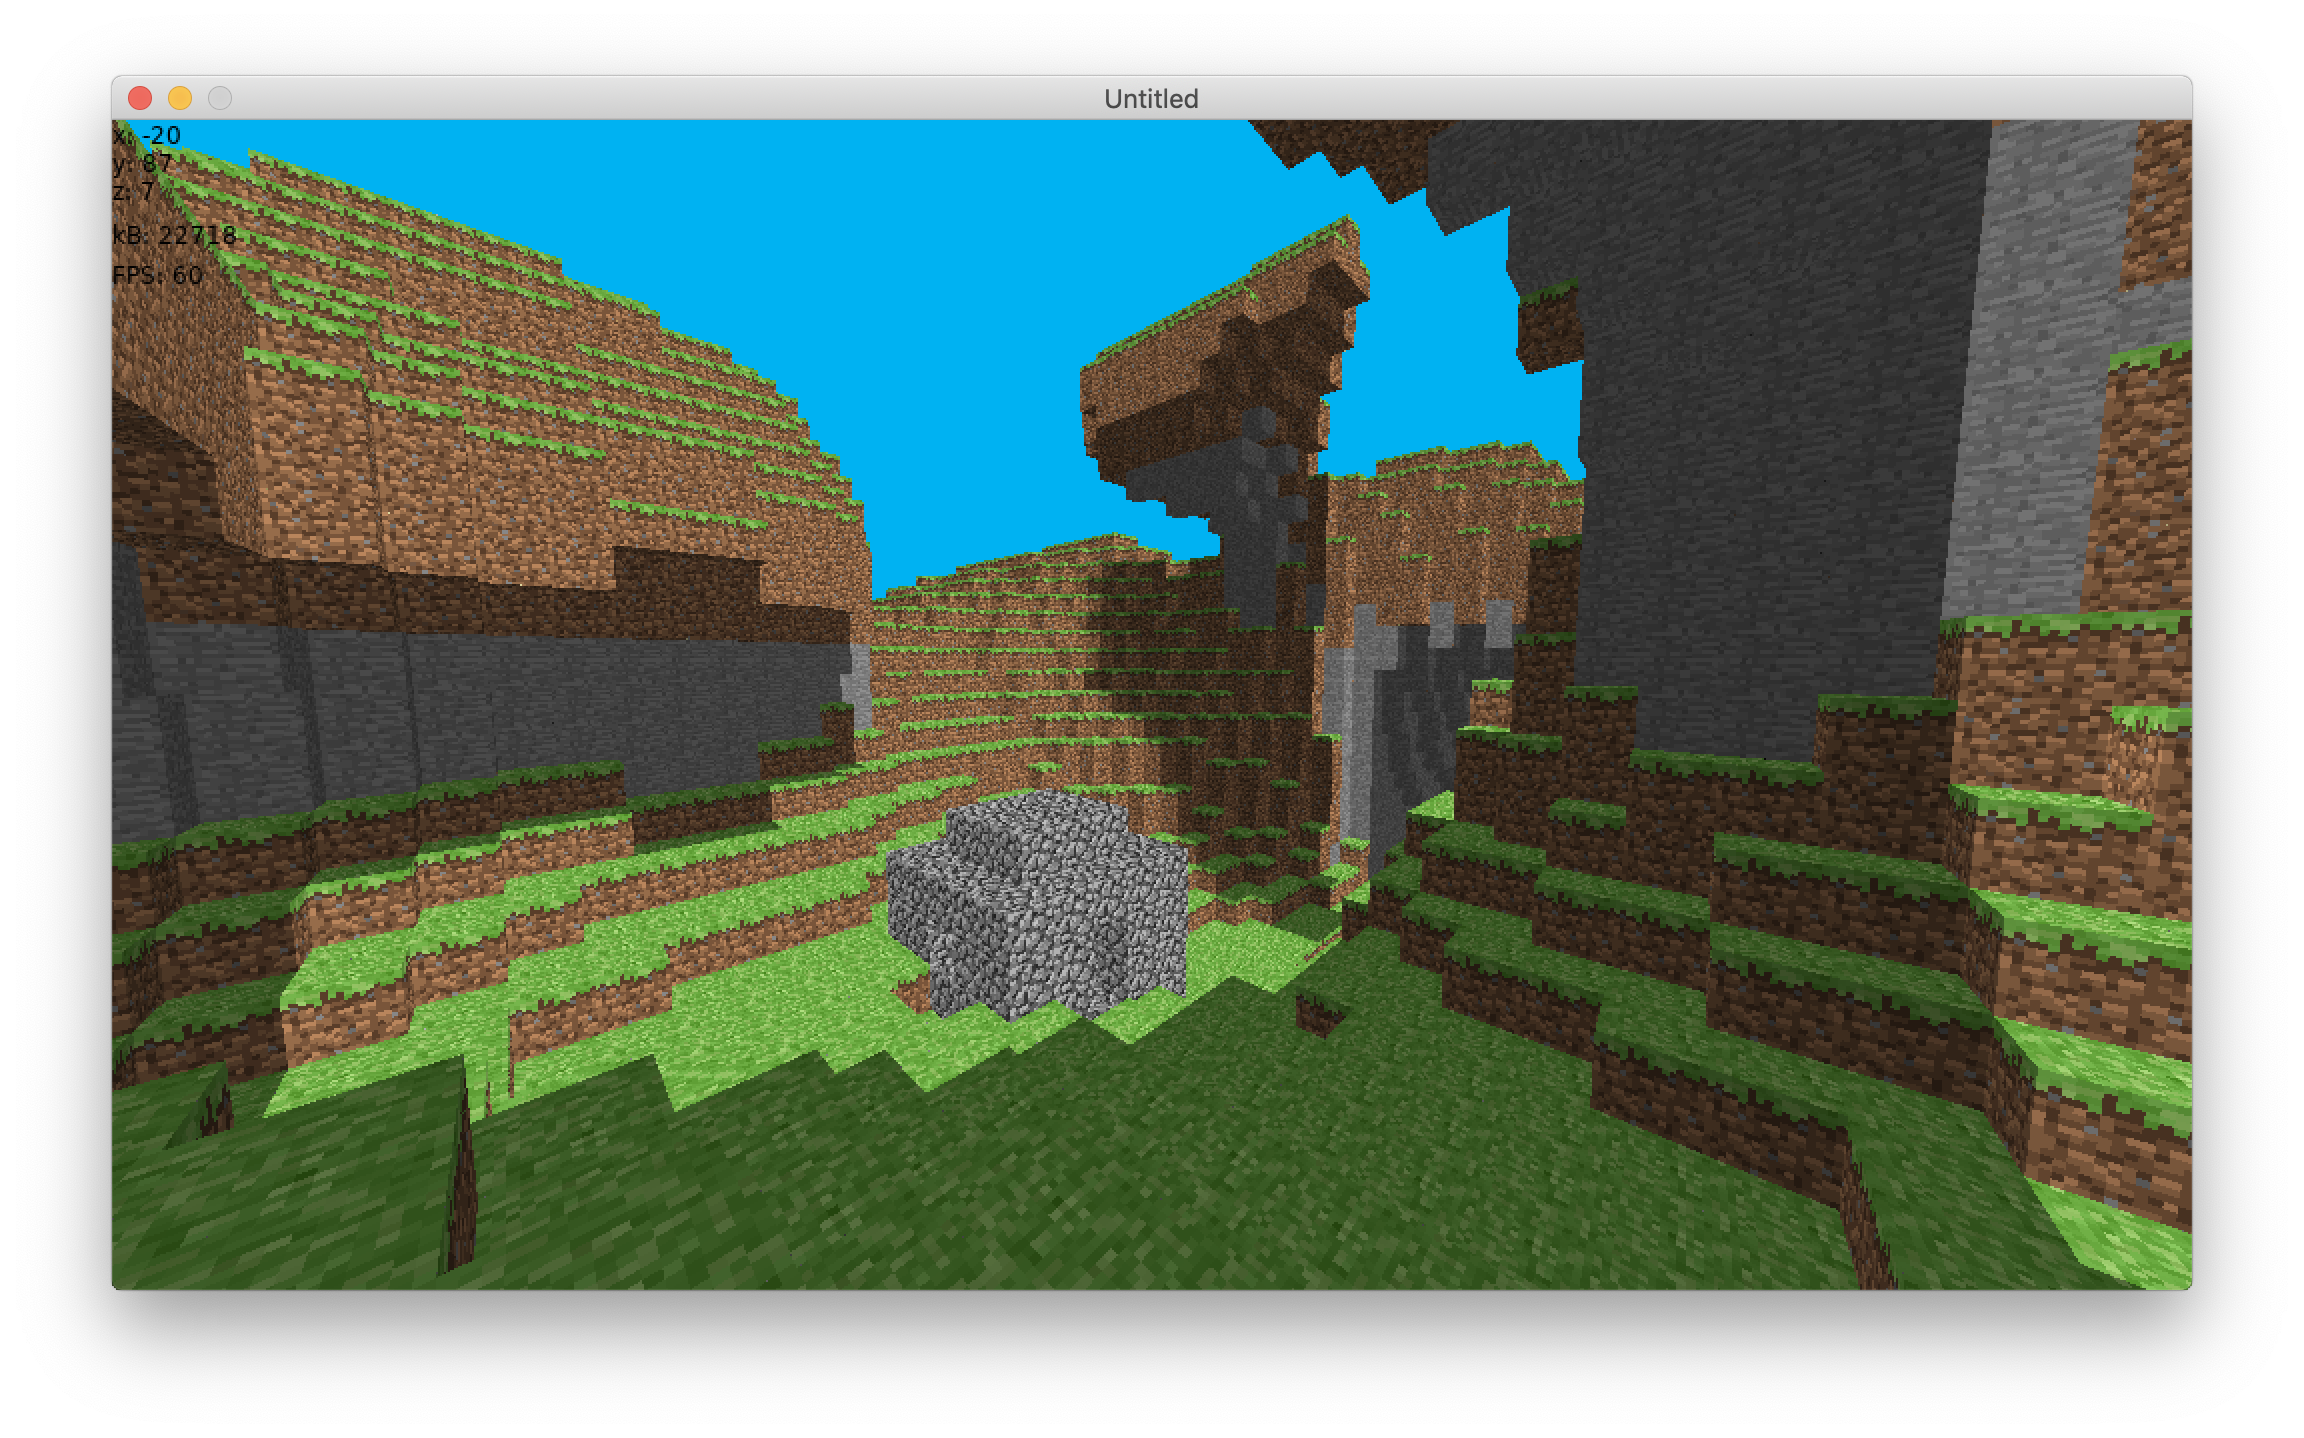
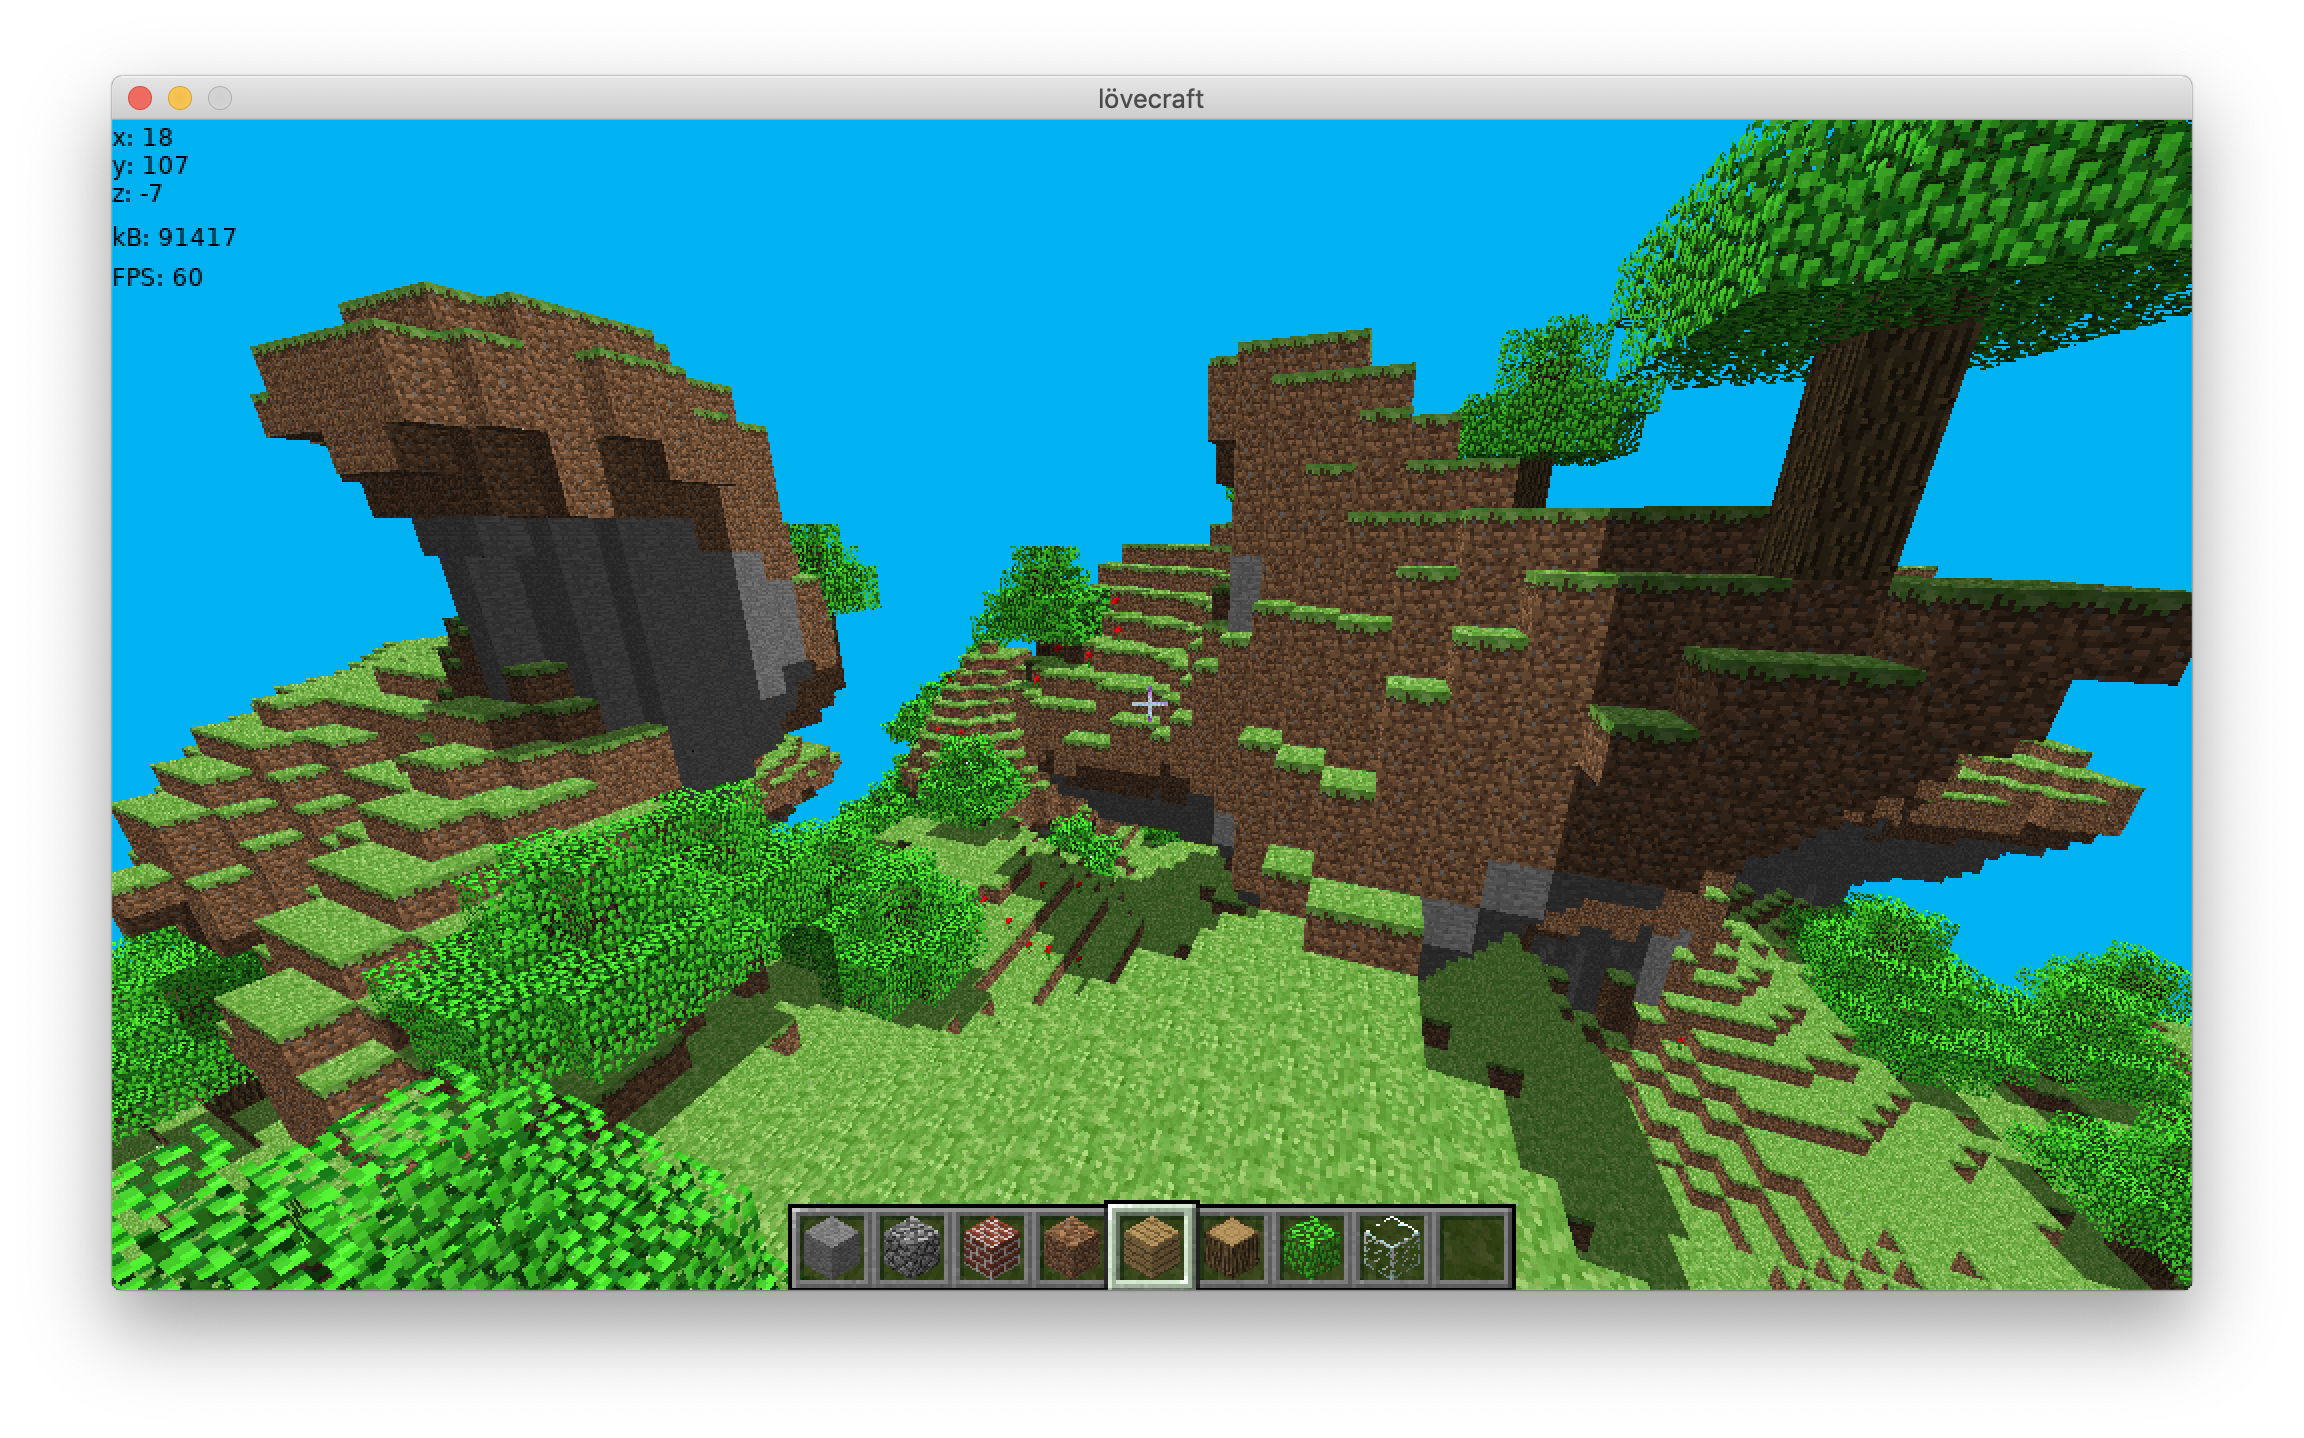
new cover image

diff --git a/README.md b/README.md
@@ -2,6 +2,6 @@
 
 A 3D Minecraft clone built in LÖVE2D 11.2 for fun using my 3D engine SS3D and CPML.
 
-Feel free to fork, dissect, peruse, and use this code for whatever you want. 
+Feel free to fork, dissect, peruse, and use this code for whatever you want.
 
-![test](cover2.png)
+![test](cover.png)
